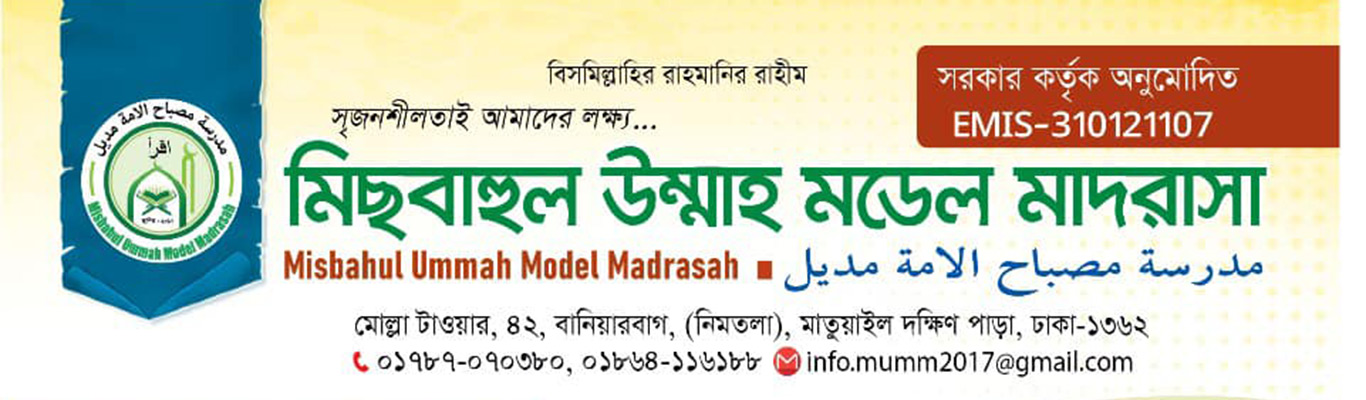
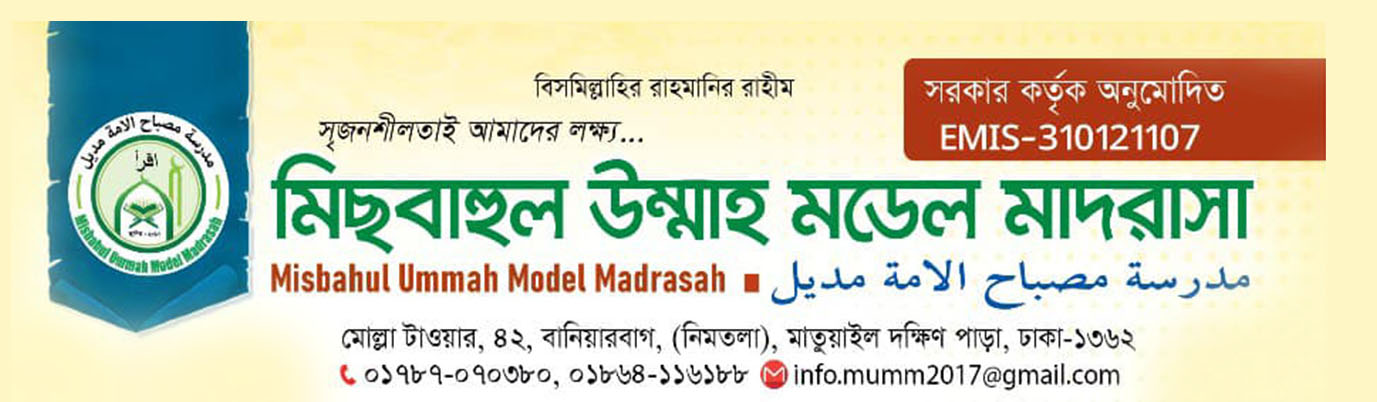
.

diff --git a/index.html b/index.html
@@ -23,7 +23,7 @@
         <header class="__header">
             <div class="container">
                 <img src="assets/images/hero_banner.jpg" alt="hero" width="100%" height="100%"
-                    style="max-height: 200px;" />
+                    style="max-height: 230px;" />
             </div>
         </header>
         <nav class="__navbar navbar navbar-expand-lg bg-light shadow-sm position-sticky top-0" style="z-index: 10000">

diff --git a/assets/styles/style.scss b/assets/styles/style.scss
@@ -12,6 +12,10 @@ body {
   font-weight: 300;
 }
 
+.__header {
+  background-color: #FEF6C5;
+}
+
 .__navbar {
   .nav-link.active {
     color: #198754

diff --git a/assets/styles/style.css b/assets/styles/style.css
@@ -11,6 +11,10 @@ body {
   font-weight: 300;
 }
 
+.__header {
+  background-color: #FEF6C5;
+}
+
 .__navbar .nav-link.active {
   color: #198754;
 }
